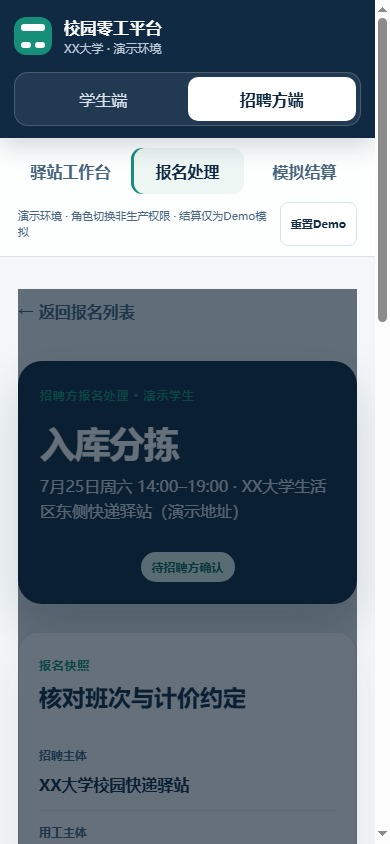
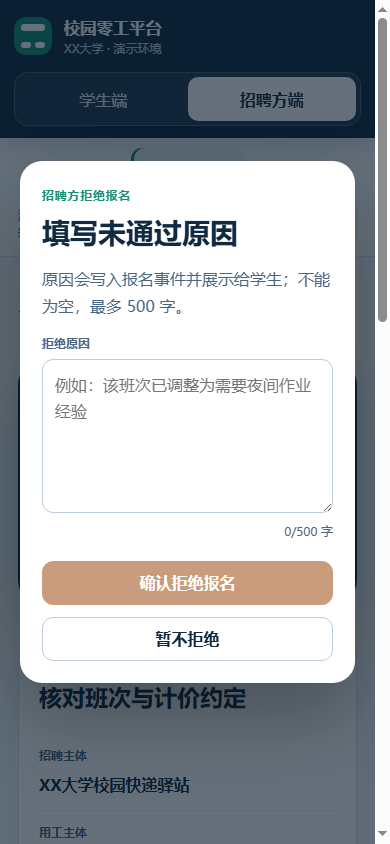
docs(g6): refresh final Edge quality evidence

diff --git a/docs/evidence/G6_VERIFICATION.md b/docs/evidence/G6_VERIFICATION.md
@@ -2,9 +2,9 @@
 
 - 执行日期：2026-07-21（北京时间）
 - 分支：`feat/g6-quality`
-- 应用实现提交：`995d72a747a001123020826fc9a271db6878f459`
-- 测试补充提交：`92c069f`
-- Preview：[campus-gig-platform-ioytlibe3-campus-gig-platform.vercel.app](https://campus-gig-platform-ioytlibe3-campus-gig-platform.vercel.app)
+- 应用实现提交：`c4de0aeef402a46f3d503c4032ae13279aa354e8`
+- 关键修复提交：`30256fd`（英文底层错误本地化）、`c4de0ae`（消除弹层定位动画竞态）
+- Preview：[campus-gig-platform-fo23hh2f3-campus-gig-platform.vercel.app](https://campus-gig-platform-fo23hh2f3-campus-gig-platform.vercel.app)
 - 网络说明：Preview 浏览器验收使用可访问 Vercel/Supabase 的代理环境；不得写成中国大陆无 VPN 直连通过。D-020 保留至 G7。
 
 ## 自动门禁
@@ -13,13 +13,13 @@
 | --- | --- |
 | `tsc -b --force --pretty false` | 通过 |
 | `eslint src --ext .ts,.tsx --max-warnings 0` | 通过，0 warning |
-| Vitest | 5 个文件、26 项用例全绿 |
-| `pnpm run build` | 通过；Vite 100 modules，JS gzip 127.50 kB，CSS gzip 5.20 kB |
+| Vitest | 5 个文件、27 项用例全绿 |
+| `pnpm run build` | 通过；Vite 100 modules，JS gzip 127.55 kB，CSS gzip 5.19 kB |
 | 页面层直接调用 Supabase | 零命中；仍为 page → service → repository → RPC |
 | migration/state machine | 未修改；SHA-256 见下文 |
 | 实际密钥模式 | 未发现实际 `sb_secret_*`、数据库连接串或 `service_role` JWT；治理文档中的禁止性文字不作为密钥命中 |
 
-新增测试覆盖：拒绝原因 trim 后 1–500 字、匿名 Auth/云端连接失败不伪造 ready、中文安全错误和通用重试文案。
+新增测试覆盖：拒绝原因 trim 后 1–500 字、匿名 Auth/云端连接失败不伪造 ready、中文安全错误、英文底层错误过滤和通用重试文案。
 
 ## 学生取消异常流
 
@@ -72,7 +72,7 @@
 | 1440 × 900 | `scrollWidth = clientWidth = 1425`；筛选四列 |
 
 - 可见主要按钮、链接、输入控件最小高度 44px；
-- 新增弹层支持 Escape 关闭（提交中除外），提交中按钮禁用；
+- 新增弹层支持 Escape 关闭（提交中除外），提交中按钮禁用；页面容器不再使用会短暂改变 fixed 定位上下文的入场动画；
 - Chromium 自动化与 Microsoft Edge `150.0.4078.65` 均完成主路径、取消、拒绝和错误态验收；
 - 最新 Preview 首屏 J-01 位于首位，控制台应用 error/warn 为 0；
 - `/`、学生三条路由、招聘方三条路由均 HTTP 200。
@@ -83,18 +83,18 @@ Edge QA 脚本：`scripts/edge-g6-qa.mjs`；结构化结果：`docs/evidence/g6/
 
 | 截图 | 场景 | SHA-256 |
 | --- | --- | --- |
[24 lines of base64/hex data omitted]
 
 ## 冻结契约哈希
 
